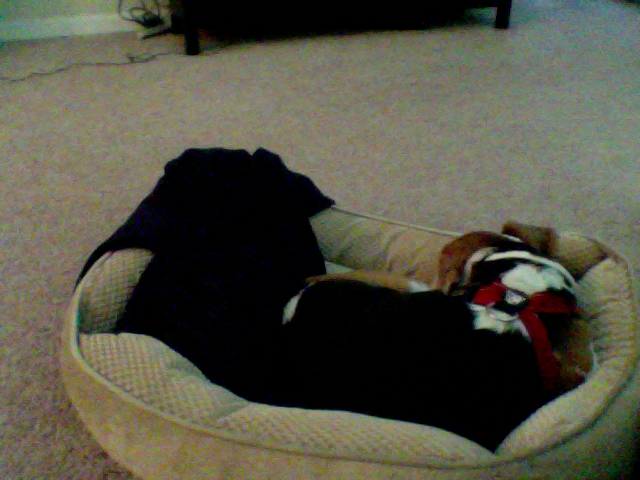
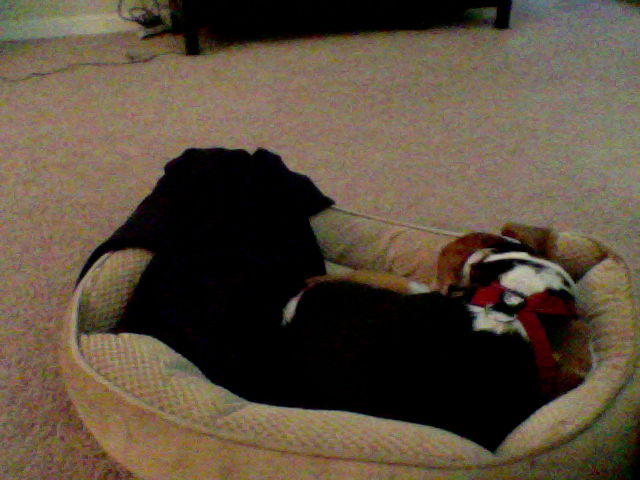
update at Month05Day12Time12:36

Changed region(s): [[0.0, 0.0, 1.0, 1.0]]

diff --git a/index.html b/index.html
@@ -39,8 +39,8 @@
       <!-- Example row of columns -->
       <div class="row">
         <div class="col-md-4">
-	<p>This picture was updated at Month05Day12Time12:35</p>
-		<img src="9_pic.png" />
+	<p>This picture was updated at Month05Day12Time12:36</p>
+		<img src="8_pic.png" />
         </div>
       </div>
 
